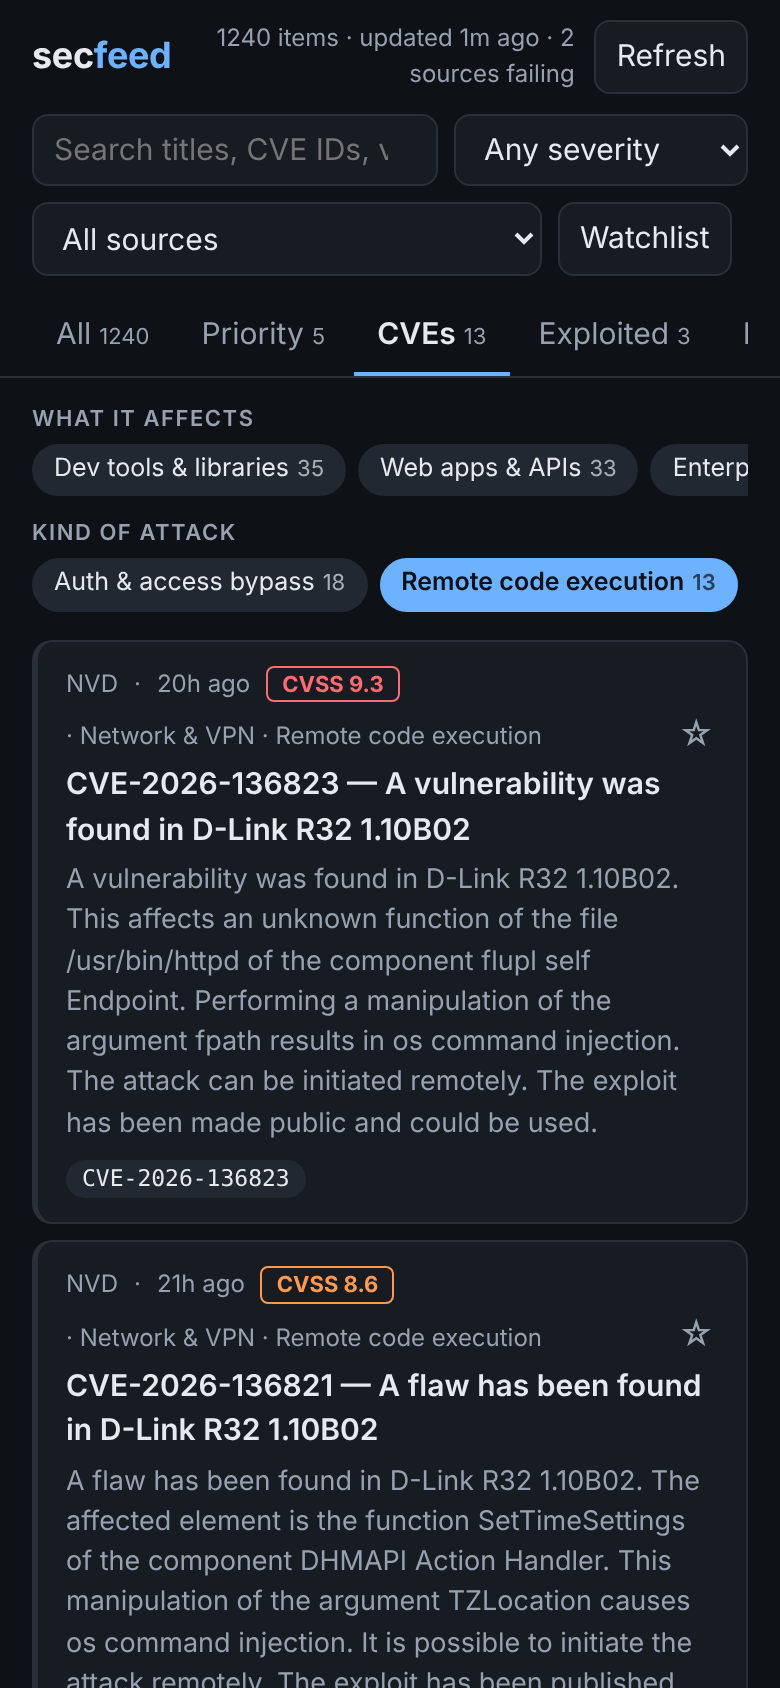
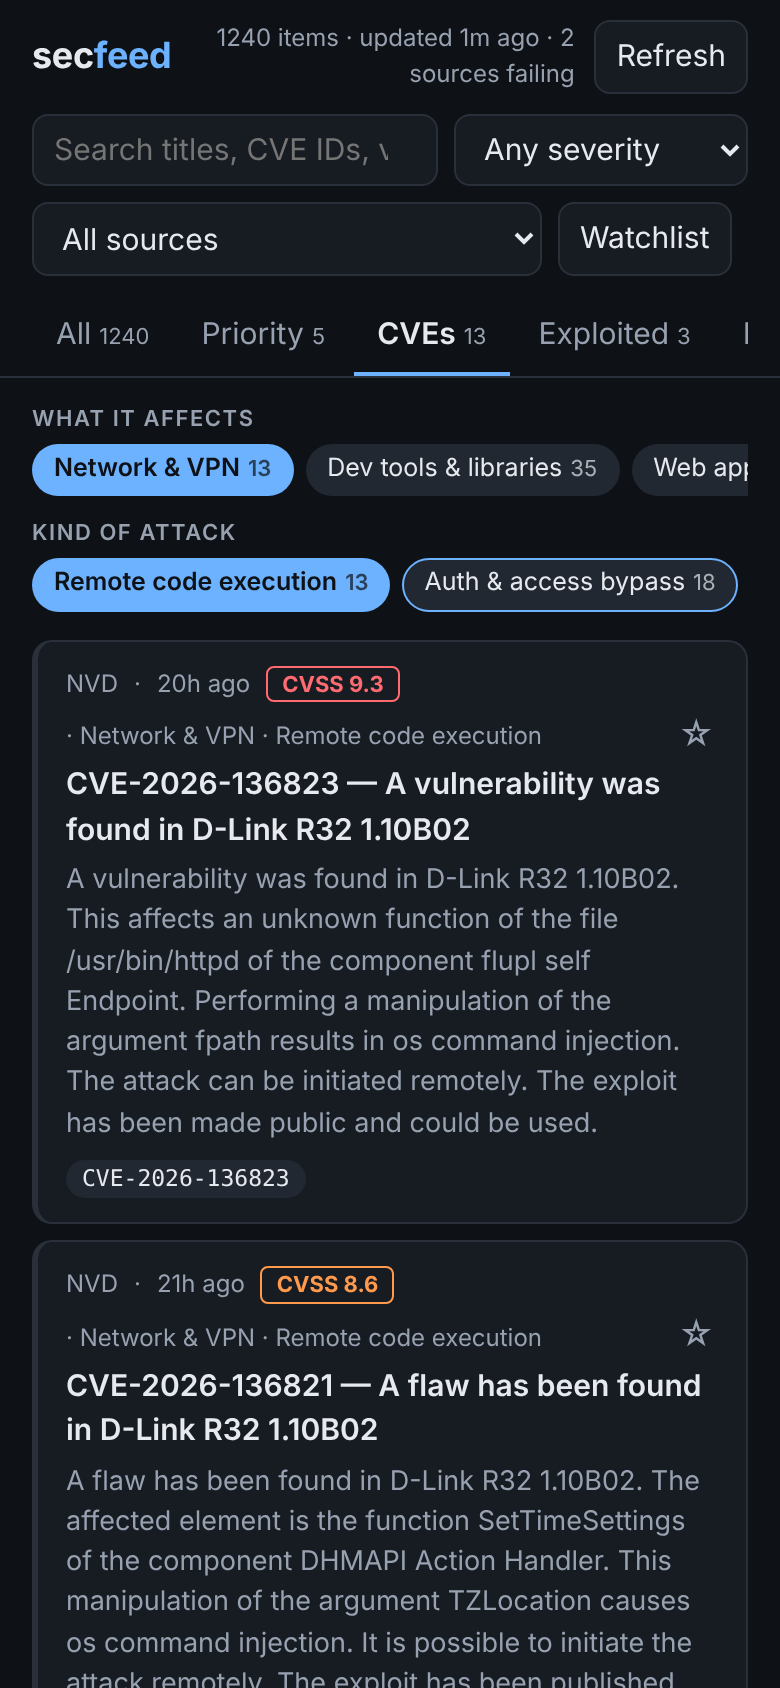
secfeed: keep the selected category chip in view
Claude-Session: https://claude.ai/code/session_01EsiyWuxK1Cvyt6E7zCTdGd

Changed region(s): [[0.0308, 0.2464, 0.9538, 0.3697], [0.6769, 0.2464, 0.7385, 0.2773]]

diff --git a/secfeed/web/index.html b/secfeed/web/index.html
@@ -573,7 +573,9 @@ function renderCats(tab) {
     for (const i of filtered(tab, key)) for (const c of i[field] || []) counts.set(c, (counts.get(c) || 0) + 1);
     if (!counts.size) continue;
     const row = el("div", "catrow");
-    const sorted = [...counts].sort((a, b) => (a[0] === "Other") - (b[0] === "Other") || b[1] - a[1]);
+    // Chosen chip first (so it stays in view), "Other" last, then by count.
+    const sorted = [...counts].sort((a, b) => (b[0] === state[key]) - (a[0] === state[key]) ||
+      (a[0] === "Other") - (b[0] === "Other") || b[1] - a[1]);
     for (const [name, n] of sorted) {
       const b = el("button", "cat", name);
       b.append(el("span", "n", String(n)));
